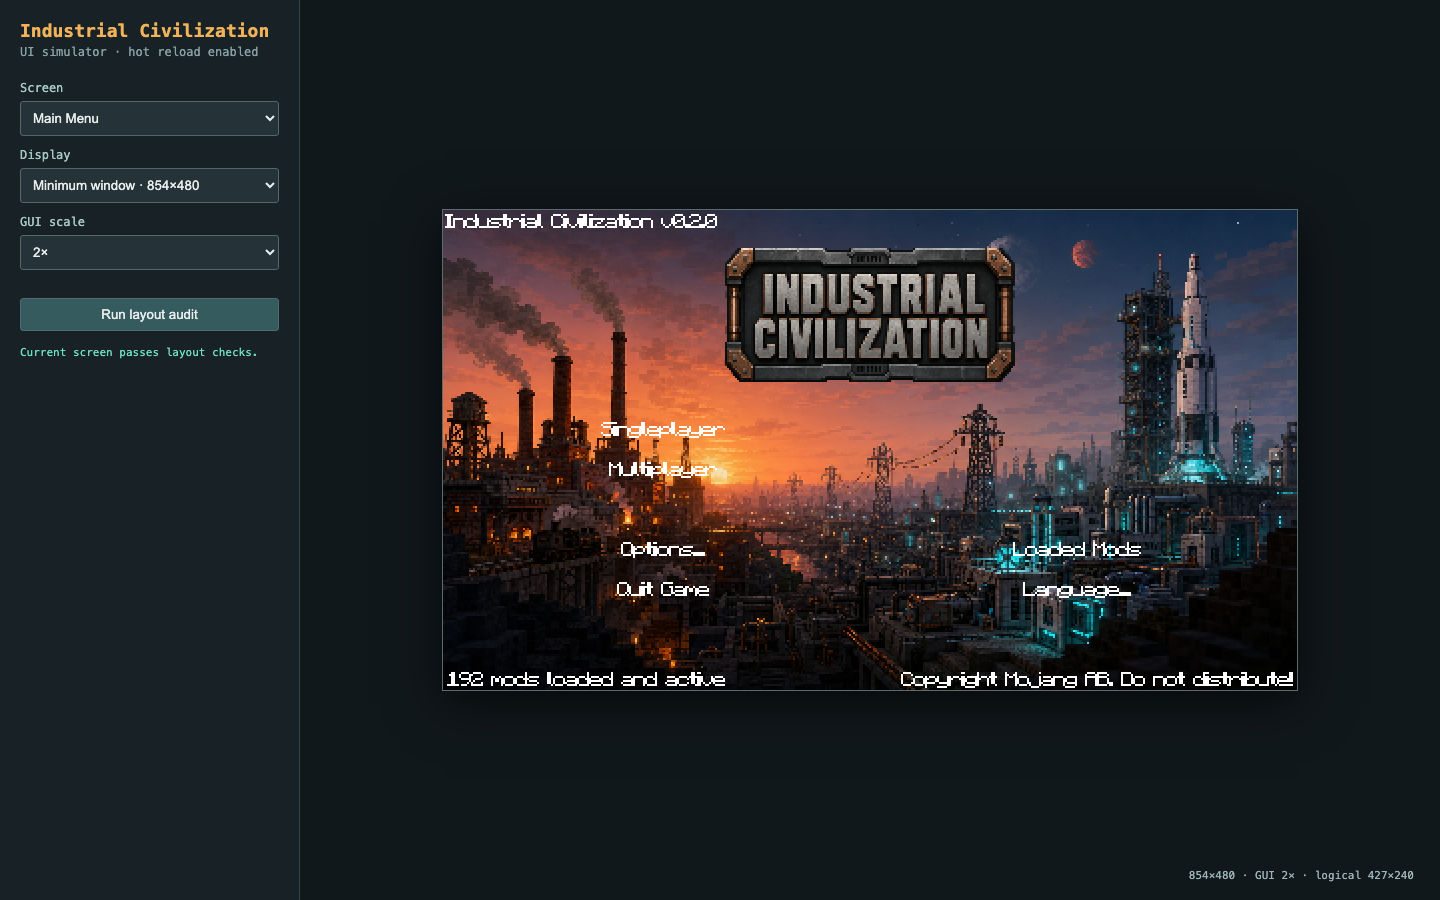
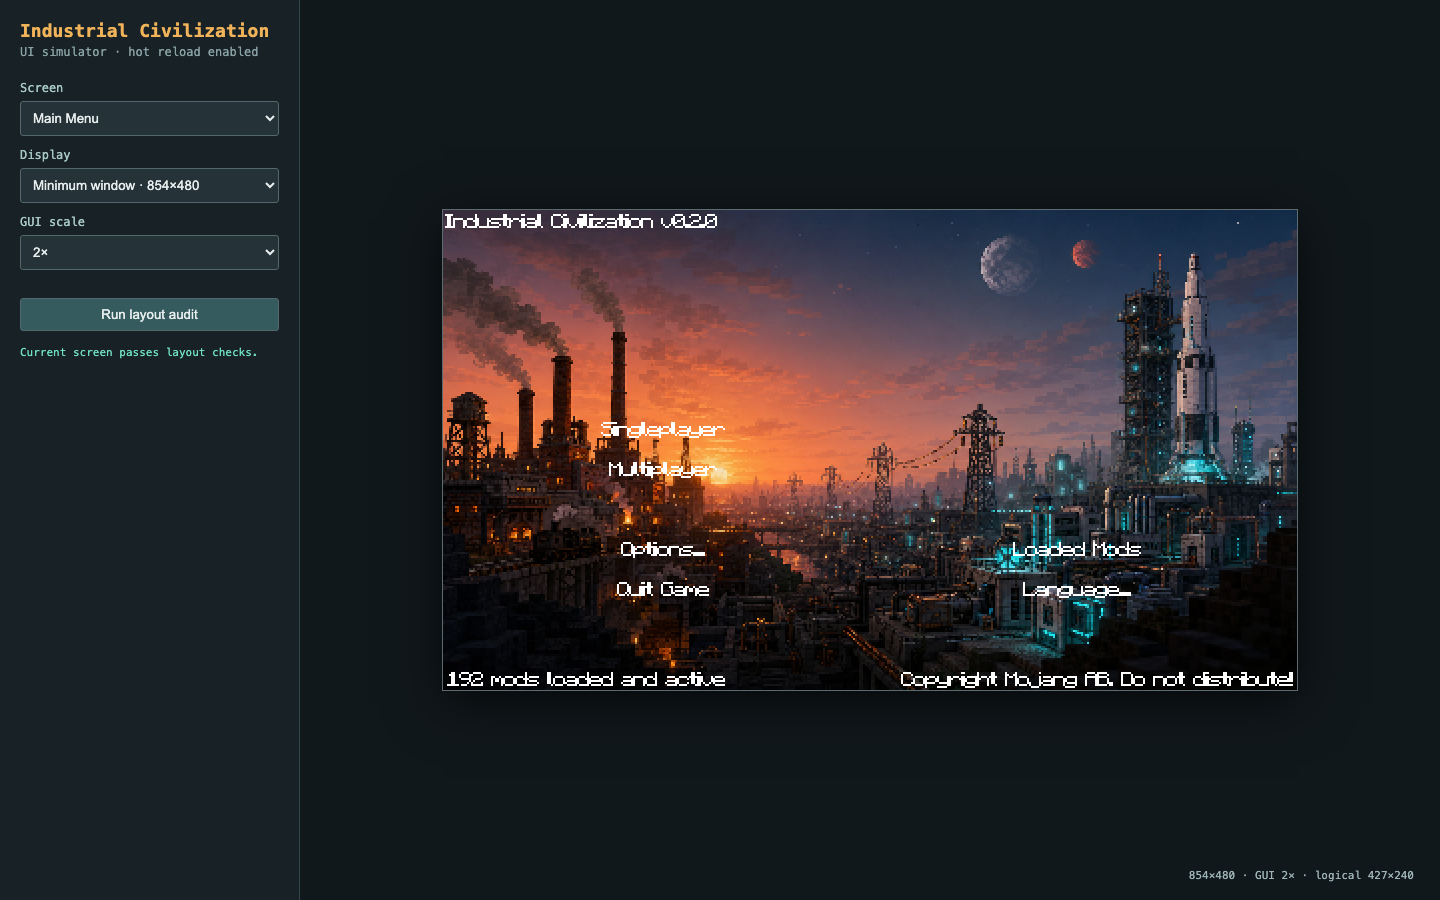
Remove main menu title card

Changed region(s): [[0.5, 0.2489, 0.7188, 0.4356]]

diff --git a/tools/ui_simulator/app.js b/tools/ui_simulator/app.js
@@ -4,7 +4,7 @@ const $ = id => document.getElementById(id);
 const canvas = $("ui");
 const ctx = canvas.getContext("2d", {alpha: false});
 ctx.imageSmoothingEnabled = false;
-let data, fontImage, machineTexture, menuImage, menuLogo, menuButton, questHomeImage, stamp;
+let data, fontImage, machineTexture, menuImage, menuButton, questHomeImage, stamp;
 const questImages = new Map();
 const issues = [];
 const glyphCache = new Map();
@@ -170,13 +170,6 @@ function anchoredBox(d, entry) {
   return {x, y, w: entry.width || 0, h: entry.height || 0};
 }
 
-function mainMenuTitleWidth(d) {
-  const proportional = Math.round(Math.max(0, d.width) * 0.40);
-  const widthLimit = Math.max(160, d.width - 32);
-  const heightLimit = Math.max(160, Math.max(80, d.height - 160) * 2);
-  return Math.max(160, Math.min(proportional, widthLimit, heightLimit));
-}
-
 function questHomeTitleWidth(backdrop) {
   const proportional = Math.floor(Math.max(0, backdrop.w) * 0.65);
   const widthLimit = Math.max(256, backdrop.w - 16);
@@ -185,8 +178,6 @@ function questHomeTitleWidth(backdrop) {
 }
 
 function mainMenuLayout(d, auditScreen = "mainmenu") {
-  const titleWidth = mainMenuTitleWidth(d);
-  const title = {x: (d.width - titleWidth) / 2, y: 14, w: titleWidth, h: titleWidth / 2};
   const versionLabel = data.mainMenu.labels.industrialcivilization;
   const version = {x: versionLabel.posX || 0, y: versionLabel.posY || 0,
     w: textWidth(versionLabel.text), h: 8};
@@ -194,22 +185,18 @@ function mainMenuLayout(d, auditScreen = "mainmenu") {
     .filter(([id]) => id !== "replay" && id !== "modslabel" && id !== "speaker")
     .map(([id, entry]) => ({id, entry, box: anchoredBox(d, entry)}));
   const viewport = {x: 0, y: 0, w: d.width, h: d.height};
-  if (!contained(title, viewport)) issue(auditScreen, "Main-menu logo clips the viewport", title);
-  if (overlap(title, version)) issue(auditScreen, "Main-menu version label overlaps the logo", version);
   for (const buttonEntry of buttons) {
     if (!contained(buttonEntry.box, viewport)) issue(auditScreen, `Main-menu ${buttonEntry.id} button clips the viewport`, buttonEntry.box);
-    if (overlap(title, buttonEntry.box)) issue(auditScreen, `Main-menu logo overlaps the ${buttonEntry.id} button`, buttonEntry.box);
   }
   for (let i = 0; i < buttons.length; i++) for (let j = i + 1; j < buttons.length; j++) {
     if (overlap(buttons[i].box, buttons[j].box)) issue(auditScreen, `Main-menu ${buttons[i].id} and ${buttons[j].id} buttons overlap`, buttons[i].box);
   }
-  return {title, buttons, version};
+  return {buttons, version};
 }
 
 function renderMainMenu(d, auditScreen = "mainmenu") {
   ctx.drawImage(menuImage, 0, 0, d.width, d.height);
   const layout = mainMenuLayout(d, auditScreen);
-  ctx.drawImage(menuLogo, layout.title.x, layout.title.y, layout.title.w, layout.title.h);
   drawText(data.mainMenu.labels.industrialcivilization.text,
     layout.version.x, layout.version.y, "#fff");
   const labels = {singleplayer: "Singleplayer", multiplayer: "Multiplayer", options: "Options...", quit: "Quit Game", mods: "Loaded Mods", languagebutton: "Language..."};
@@ -529,10 +516,10 @@ async function audit() {
 }
 
 async function init() {
-  [data, fontImage, machineTexture, menuImage, menuLogo, menuButton, questHomeImage] = await Promise.all([
+  [data, fontImage, machineTexture, menuImage, menuButton, questHomeImage] = await Promise.all([
     fetch("/api/data").then(r => r.json()), image("/assets/minecraft/ascii.png"),
     image("/assets/industrial_machine.png"), image("/assets/mainmenu.png"),
-    image("/assets/mainmenu-logo.png"), image("/assets/mainmenu-button.png"),
+    image("/assets/mainmenu-button.png"),
     image("/assets/quest-home.png")]);
   for (const machine of data.machines) { const option = document.createElement("option"); option.value = machine.id; option.textContent = data.lang[`tile.industrialcivilizationcore.${machine.id}.name`] || machine.id; $("machine").append(option); }
   $("machine").value = "programmable_assembler";

diff --git a/development/IndustrialCivilizationCore/src/main/java/com/industrialcivilization/core/IndustrialCivilizationCore.java b/development/IndustrialCivilizationCore/src/main/java/com/industrialcivilization/core/IndustrialCivilizationCore.java
@@ -17,14 +17,11 @@ import net.minecraft.block.material.Material;
 import net.minecraft.init.Blocks;
 import net.minecraft.init.Items;
 import net.minecraft.client.Minecraft;
-import net.minecraft.client.gui.Gui;
 import net.minecraft.client.gui.GuiIngameMenu;
 import net.minecraft.client.gui.GuiButton;
-import net.minecraft.client.gui.GuiMainMenu;
 import net.minecraft.client.gui.advancements.GuiAdvancementTab;
 import net.minecraft.client.gui.advancements.GuiScreenAdvancements;
 import net.minecraft.client.resources.I18n;
-import net.minecraft.client.renderer.GlStateManager;
 import net.minecraft.client.renderer.block.model.ModelResourceLocation;
 import net.minecraft.client.settings.KeyBinding;
 import net.minecraft.creativetab.CreativeTabs;
@@ -627,10 +624,6 @@ public final class IndustrialCivilizationCore {
         private static boolean keyBindingsChecked;
         private static net.minecraft.client.multiplayer.WorldClient terrainWarmupWorld;
         private static boolean terrainWarmupShown;
-        private static final ResourceLocation MAIN_MENU_LOGO = new ResourceLocation(
-            MODID, "textures/mainmenu/industrial_civilization_logo.png");
-        private static final String CUSTOM_MAIN_MENU_SCREEN =
-            "lumien.custommainmenu.gui.GuiCustom";
 
         @SubscribeEvent
         public static void registerModels(ModelRegistryEvent event) {
@@ -675,22 +668,6 @@ public final class IndustrialCivilizationCore {
                     artifact, 0,
                     new ModelResourceLocation(artifact.getRegistryName(), "inventory"));
             }
-        }
-
-        /** Draw the title responsively because Custom Main Menu only supports fixed image sizes. */
-        @SubscribeEvent(priority = EventPriority.LOWEST)
-        public static void drawResponsiveMainMenuTitle(GuiScreenEvent.DrawScreenEvent.Post event) {
-            if (!(event.getGui() instanceof GuiMainMenu)
-                    && !CUSTOM_MAIN_MENU_SCREEN.equals(event.getGui().getClass().getName())) return;
-            int width = GameplayRules.mainMenuTitleWidth(event.getGui().width, event.getGui().height);
-            int height = width / 2;
-            int x = (event.getGui().width - width) / 2;
-            int y = 14;
-            Minecraft.getMinecraft().getTextureManager().bindTexture(MAIN_MENU_LOGO);
-            GlStateManager.enableBlend();
-            GlStateManager.color(1.0F, 1.0F, 1.0F, 1.0F);
-            Gui.drawScaledCustomSizeModalRect(x, y, 0.0F, 0.0F, 512, 256,
-                width, height, 512.0F, 256.0F);
         }
 
         /**

diff --git a/tools/ui_simulator/server.py b/tools/ui_simulator/server.py
@@ -104,7 +104,6 @@ def source_stamp() -> int:
                JAVA / "IndustrialMachineKind.java", JAVA / "FactionSystem.java",
                RESOURCES / "lang/en_us.lang", RESOURCES / "textures/gui/industrial_machine.png",
                PACK_RESOURCES / "textures/mainmenu/industrial_civilization_background.png",
-               PACK_RESOURCES / "textures/mainmenu/industrial_civilization_logo.png",
                PACK_RESOURCES / "textures/gui/quest_home_v2.png"]
     return max(int(path.stat().st_mtime_ns) for path in watched if path.exists())
 
@@ -146,7 +145,6 @@ class Handler(BaseHTTPRequestHandler):
         asset_map = {
             "/assets/industrial_machine.png": RESOURCES / "textures/gui/industrial_machine.png",
             "/assets/mainmenu.png": PACK_RESOURCES / "textures/mainmenu/industrial_civilization_background.png",
-            "/assets/mainmenu-logo.png": PACK_RESOURCES / "textures/mainmenu/industrial_civilization_logo.png",
             "/assets/mainmenu-button.png": PACK_RESOURCES / "textures/mainmenu/btn.png",
             "/assets/quest-home.png": PACK_RESOURCES / "textures/gui/quest_home_v2.png",
         }

diff --git a/tools/validate_runtime_content.py b/tools/validate_runtime_content.py
@@ -111,12 +111,10 @@ check(title_logo.getpixel((256, 128))[3] == 255,
       "main-menu title card preserves its opaque plaque interior")
 
 gameplay_rules = (JAVA / "GameplayRules.java").read_text()
-check("mainMenuTitleWidth" in gameplay_rules and "questHomeTitleWidth" in gameplay_rules,
-      "title cards use deterministic responsive sizing rules")
+check("questHomeTitleWidth" in gameplay_rules,
+      "Quest Home title card uses deterministic responsive sizing rules")
 check("resizeAndCenterQuestHomeTitle" in (JAVA / "IndustrialCivilizationCore.java").read_text(),
       "Better Questing title receives its responsive centered runtime layout")
-check("lumien.custommainmenu.gui.GuiCustom" in (JAVA / "IndustrialCivilizationCore.java").read_text(),
-      "responsive title renderer recognizes the live Custom Main Menu screen")
 
 quest_home = Image.open(ROOT / "resources/industrialcivilizationcore/textures/gui/quest_home_v2.png").convert("RGBA")
 check(quest_home.size == (512, 512), "Better Questing home atlas remains 512x512")

diff --git a/tools/static_validate.py b/tools/static_validate.py
@@ -396,10 +396,8 @@ ok("Industrial Civilization" in main_menu_text and "Tekkit 2" not in main_menu_t
    and main_menu.get("other", {}).get("background", {}).get("image")
        == "industrialcivilizationcore:textures/mainmenu/industrial_civilization_background.png",
    "main menu uses pack-owned Industrial Civilization branding and background")
-ok(not main_menu.get("images") and "drawResponsiveMainMenuTitle" in core_source
-   and "mainMenuTitleWidth" in core_source
-   and 'lumien.custommainmenu.gui.GuiCustom' in core_source,
-   "first-party renderer scales the main-menu title responsively")
+ok(not main_menu.get("images") and "drawResponsiveMainMenuTitle" not in core_source,
+   "main menu intentionally leaves the background unobstructed by a title card")
 ok("slice" not in main_menu_text.lower(),
    "main menu contains no internal development-slice terminology")
 ok("S:title=Industrial Civilization" in random_patches

diff --git a/development/IndustrialCivilizationCore/src/main/java/com/industrialcivilization/core/GameplayRules.java b/development/IndustrialCivilizationCore/src/main/java/com/industrialcivilization/core/GameplayRules.java
@@ -8,13 +8,6 @@ public final class GameplayRules {
         return Math.max(1.0F, Math.min(widthScale, heightScale));
     }
 
-    public static int mainMenuTitleWidth(int screenWidth, int screenHeight) {
-        int proportional = Math.round(Math.max(0, screenWidth) * 0.40F);
-        int widthLimit = Math.max(160, screenWidth - 32);
-        int heightLimit = Math.max(160, Math.max(80, screenHeight - 160) * 2);
-        return Math.max(160, Math.min(proportional, Math.min(widthLimit, heightLimit)));
-    }
-
     public static int questHomeTitleWidth(int backdropWidth, int backdropHeight) {
         int proportional = (int) (Math.max(0, backdropWidth) * 0.65F);
         int widthLimit = Math.max(256, backdropWidth - 16);

diff --git a/development/IndustrialCivilizationCore/src/test/java/com/industrialcivilization/core/GameplayRulesTest.java b/development/IndustrialCivilizationCore/src/test/java/com/industrialcivilization/core/GameplayRulesTest.java
@@ -15,13 +15,6 @@ public class GameplayRulesTest {
         assertEquals(1.0F, GameplayRules.machineGuiScale(427, 600), 0.0001F);
     }
 
-    @Test public void mainMenuTitleKeepsSmallWindowMinimum() {
-        assertEquals(160, GameplayRules.mainMenuTitleWidth(427, 240));
-    }
-    @Test public void mainMenuTitleGrowsOnLargeWindows() {
-        assertEquals(237, GameplayRules.mainMenuTitleWidth(592, 333));
-        assertEquals(384, GameplayRules.mainMenuTitleWidth(960, 540));
-    }
     @Test public void questHomeTitleKeepsSmallWindowMinimum() {
         assertEquals(256, GameplayRules.questHomeTitleWidth(395, 176));
     }
